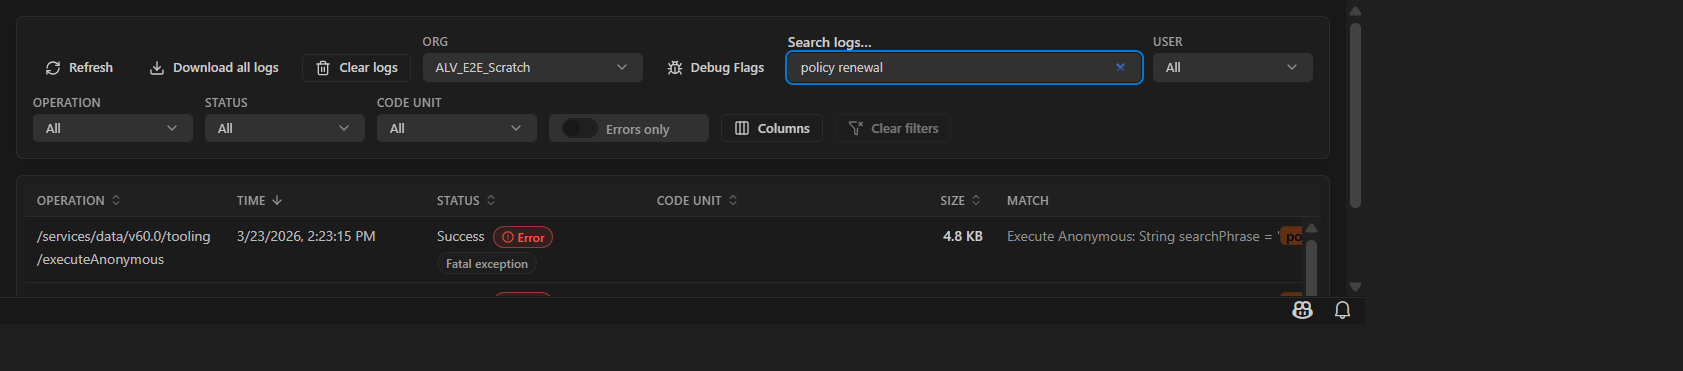
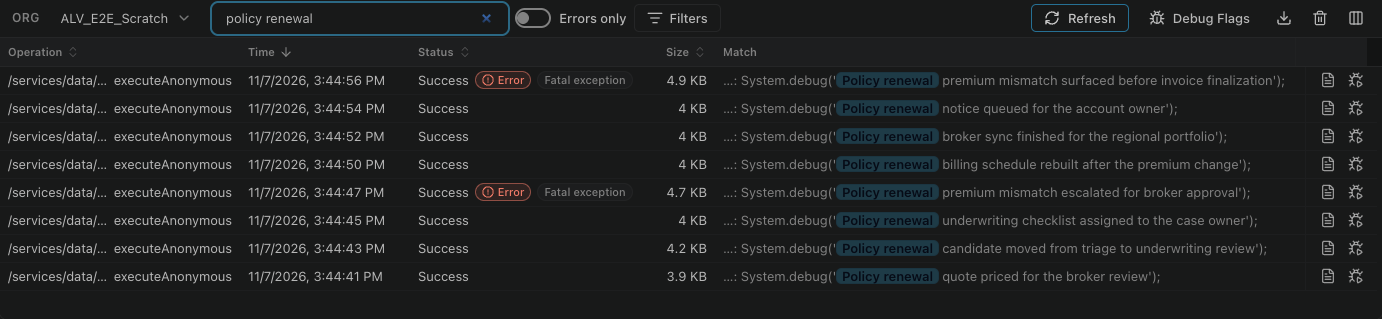
docs: regenerate the screenshots for the redesigned UI
The README and the walkthrough now show the current Apex Logs, Log
Viewer, Debug Flags, Apex Tail and Custom Logs. README and ASSETS use
the new panel and control names.

Remove hero.gif and apex-tail-log.gif, which no page has used since
March and which added 8.9 MB to the package.

diff --git a/README.md b/README.md
@@ -28,7 +28,7 @@ Search downloaded Salesforce Apex logs inside VS Code, jump straight to the righ
 
 ![Search, snippets, triage, and local log search](https://raw.githubusercontent.com/Electivus/Apex-Log-Viewer/main/apps/vscode-extension/media/docs/hero.png)
 
-Search in the logs panel is optimized for locally saved log bodies, so the most effective flow is:
+Search in the **Apex Logs** panel is optimized for locally saved log bodies, so the most effective flow is:
 
 1. Refresh logs.
 2. Search by the phrase, record ID, correlation ID, or exception detail you already know.
@@ -36,7 +36,7 @@ Search in the logs panel is optimized for locally saved log bodies, so the most 
 4. Use **Download all logs** when the refreshed and scrolled set still did not surface what you need, or when you want to pull the whole org backlog into the workspace in one shot.
 5. Open the best candidate in the dedicated viewer.
 
-![Dedicated Apex Log Viewer with diagnostics](https://raw.githubusercontent.com/Electivus/Apex-Log-Viewer/main/apps/vscode-extension/media/docs/log-viewer.png)
+![Dedicated Apex Log Viewer with the failure banner and diagnostics](https://raw.githubusercontent.com/Electivus/Apex-Log-Viewer/main/apps/vscode-extension/media/docs/log-viewer.png)
 
 ![Apex Debug Flags editor](https://raw.githubusercontent.com/Electivus/Apex-Log-Viewer/main/apps/vscode-extension/media/docs/debug-flags.png)
 
@@ -117,7 +117,7 @@ See [Agent Skill installation and migration](docs/AGENT-SKILL.md) for offline in
 
 The extension activates automatically when the workspace contains `sfdx-project.json`. You can also activate it on demand by opening an Apex log or running one of the commands below.
 
-### Open the Logs Panel
+### Open the Apex Logs Panel
 
 1. Open the VS Code panel area.
 2. Switch to **Apex Logs**.
@@ -130,7 +130,7 @@ The extension activates automatically when the workspace contains `sfdx-project.
 - Match snippets appear in the `Match` column when the hit comes from the saved log file.
 - Scroll to load more rows from the current list when you want to keep widening the search incrementally.
 - Use **Download all logs** when the refreshed and scrolled set still is not enough, or when you want to pull all logs from the selected org into local search in one action.
-- Combine search with filters by user, operation, status, and **Errors only**.
+- Combine search with the **Errors only** switch and the **Filters** menu, which narrows the list by user, operation, and status.
 
 ### Review Triage Faster
 
@@ -142,12 +142,13 @@ The extension activates automatically when the workspace contains `sfdx-project.
 
 - Press `Enter` on a selected row or open the log from the list.
 - The dedicated **Apex Log Viewer** parses the log into debug, SOQL, DML, and error-oriented views.
+- When a log failed, a banner names the error, and **Go to error** selects that entry.
 - Use the built-in search box to jump between matching entries.
 - Use the diagnostics sidebar to land on mapped failures and warnings faster.
 
 ### Tail Logs
 
-- Run `Electivus Apex Logs: Tail Logs` to open the tail view.
+- Run `Electivus Apex Logs: Tail Logs` to open the **Apex Tail** panel.
 - Start or stop streaming from the toolbar.
 - Search live output, keep auto-scroll on, and open or replay the selected log from the same screen.
 
@@ -163,7 +164,7 @@ The extension activates automatically when the workspace contains `sfdx-project.
 
 ### Configure Debug Flags
 
-- Open **Debug Flags** from either the Logs toolbar or the Tail toolbar.
+- Open **Debug Flags** from either the **Apex Logs** toolbar or the **Apex Tail** toolbar.
 - Search active users by name or username.
 - Pick the log type: `DEVELOPER_LOG` by default (Apex checkpoints need it; Salesforce keeps these logs 24 hours) or `USER_DEBUG` (the Setup > Debug Logs type; kept 7 days).
 - Review the current status, level, and expiration for that log type.
@@ -178,7 +179,7 @@ The extension activates automatically when the workspace contains `sfdx-project.
 
 ### Select an Org
 
-- Use the org picker in Logs, Tail, or Debug Flags to switch between authenticated orgs.
+- Use the searchable org picker in **Apex Logs**, **Apex Tail**, **Debug Flags**, or **Custom Logs** to switch between authenticated orgs.
 - The extension can also use your CLI default org.
 
 ## Commands

diff --git a/docs/ASSETS.md b/docs/ASSETS.md
@@ -1,13 +1,14 @@
 # Assets & Screenshots
 
-This repository keeps README and Marketplace screenshots under `media/docs/` so they can be referenced with relative Markdown paths and packaged with the extension.
+This repository keeps README and Marketplace screenshots under `apps/vscode-extension/media/docs/`, so they are packaged with the extension and the walkthrough can reference them.
 
 ## Current Docs Assets
 
-- `hero.png` — primary README/Marketplace hero focused on search, snippets, triage badges, org selector, and the refresh-first local-search workflow.
-- `log-viewer.png` — dedicated `Apex Log Viewer` with diagnostics sidebar visible.
-- `debug-flags.png` — `Apex Debug Flags` editor with user search, TTL/apply/remove controls, and the Debug Level Manager.
-- `tail.png` — real-time tail view with live log lines.
+- `hero.png` — primary README/Marketplace hero of the `Apex Logs` panel, focused on search, match snippets, triage badges, and the org picker.
+- `log-viewer.png` — dedicated `Apex Log Viewer` with the failure banner, the failed entry selected, and the diagnostics sidebar. The `Get started with Apex Logs` walkthrough also shows it.
+- `debug-flags.png` — `Apex Debug Flags` editor with user search, TTL/apply/remove controls, and the Debug Level Manager. The walkthrough also shows it.
+- `tail.png` — `Apex Tail` panel with live log lines.
+- `custom-logs.png` — `Custom Logs` panel with JSON payload columns and a loaded-row filter.
 
 ## Regenerating Screenshots
 
@@ -21,20 +22,22 @@ What it does:
 
 - reuses the Playwright + Electron harness already used by E2E coverage
 - prepares a realistic scratch-org scenario with deterministic Apex logs
+- maps a Custom Logs source over `Account` in the temporary workspace and seeds its rows, because a harness scratch has no Nebula Logger, then deletes those rows
 - refreshes and saves log bodies into the temporary workspace so README search screenshots use the real local-search flow before any optional bulk download step
-- writes the final PNGs directly into `media/docs/`
+- writes the final PNGs directly into `apps/vscode-extension/media/docs/`
 
 This flow is intentionally separate from `pnpm test` and `pnpm run test:e2e` so README maintenance does not run in the default CI path.
+
+Org selection works as for `pnpm run test:e2e`. Run it locally with `SF_DEVHUB_ALIAS` and no pool variables, so it uses the single scratch `ALV_E2E_Scratch`. See [Run locally](TESTING.md#run-locally).
 
 ## Conventions
 
 - Prefer PNG for documentation screenshots.
 - Keep width around the 1200–1800px range before compression.
-- Avoid exposing real customer data, tokens, or org-sensitive identifiers.
-- Relative paths in `README.md` should point to `media/docs/*.png`.
-- The packaged file allowlist in `package.json#files` must include `media/docs/**`.
+- Show harness scratch data only. Avoid exposing real customer data, tokens, or org-sensitive identifiers.
+- `README.md` links the images with `raw.githubusercontent.com` URLs under `apps/vscode-extension/media/docs/`, so the Marketplace can show them.
+- The packaged file allowlist in `apps/vscode-extension/package.json#files` must include `media/docs/**`.
 
 ## Notes
 
 - Raw captures and temporary workspaces should stay out of the repository.
-- Old GIFs can remain for reference while the docs transition, but new README assets should use the static PNG set above.

diff --git a/CHANGELOG.md b/CHANGELOG.md
@@ -4,6 +4,7 @@
 
 ### Maintenance
 
+- Docs: the README and walkthrough screenshots show the redesigned panels. `pnpm run docs:screenshots` writes to the extension's `media/docs` folder again and captures Custom Logs too. Two GIFs that no page used are gone, which removes 8.9 MB from the packaged extension.
 - Refresh JSforce to 3.13.1 and Faye to 1.4.3. Faye 1.4.2 and later keep pending requests in a `Map`, which hid them from the Custom Logs capture's stop, so a stopped capture whose connection had dropped kept retrying for seconds; the stop now cancels those retries under both Faye shapes. Faye 1.4.2 itself is skipped because it raises unhandled rejections when a transport fails to connect.
 - CI: `pnpm run check-types` and `pnpm run compile` now type-check the webview tests and the core and Salesforce CLI plugin tests, so a type error there fails the build before a test run. Fixes the type errors these gates found, including the Tail panel's debug-level selection, which read a field TypeScript could not narrow.
 - E2E: the Debug Flags spec now proves that the Tail toolbar button opens Apex Debug Flags. `openDebugFlagsFromTail` closes the editor that the Logs step left open, then clicks without `force`, with Enter and DOM-click fallbacks. Before, the open editor satisfied the wait, so the spec passed even when the click never reached the extension.
